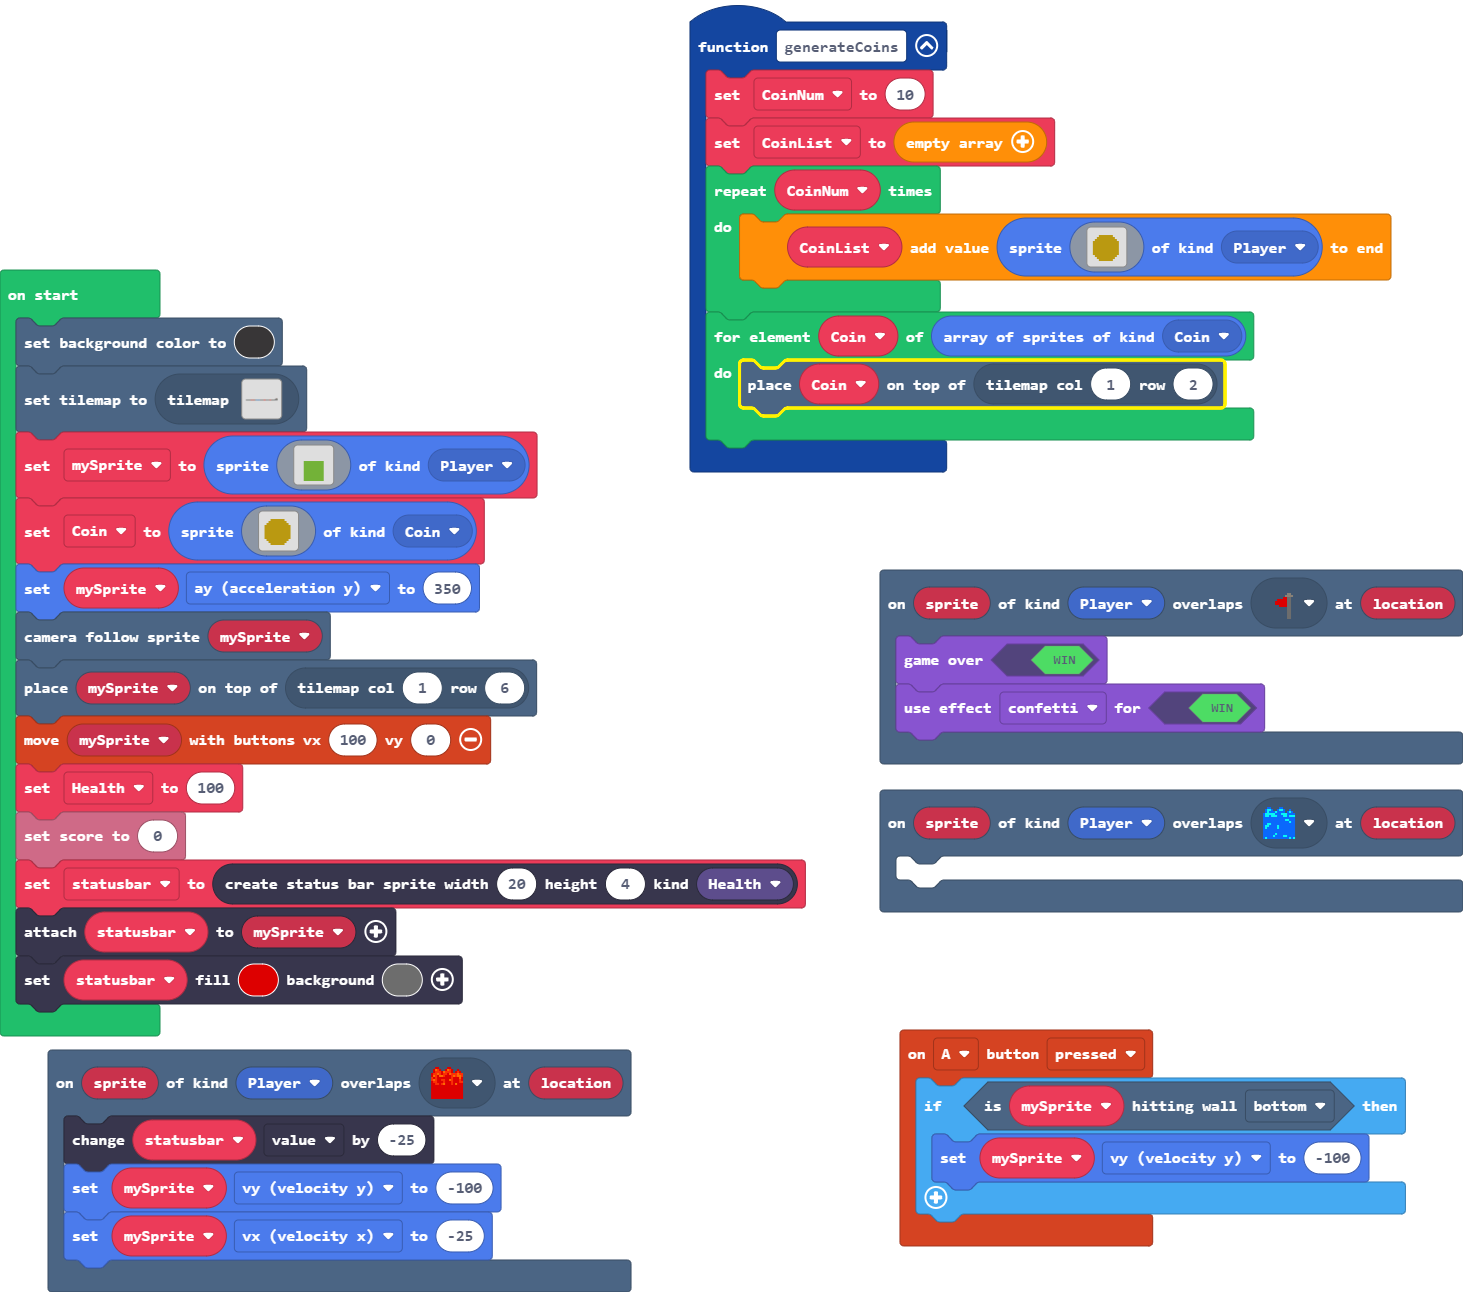
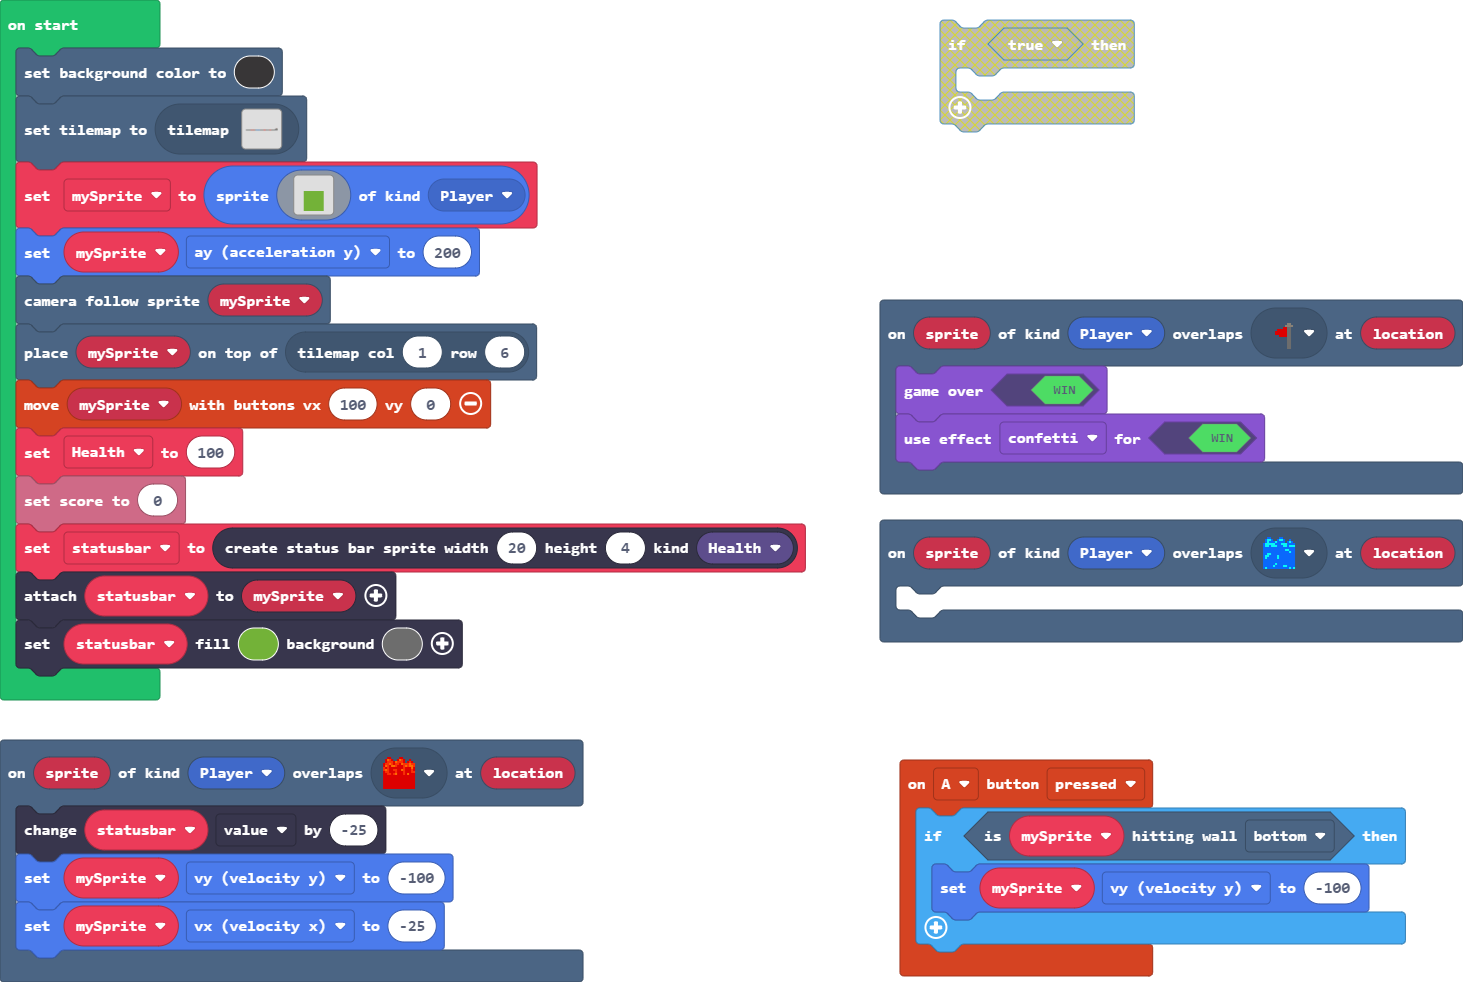
Restore '15/03/2023, 09:14:38 statur bar colour change'

diff --git a/tilemap.g.ts b/tilemap.g.ts
@@ -30,25 +30,6 @@ namespace myTiles {
 .......................................................22222
 2222222222..22..2222..22..22222222...22222222..2222222222222
 `, [myTiles.transparency16,myTiles.tile2,myTiles.tile1,myTiles.tile4,myTiles.tile5,myTiles.tile3,myTiles.tile7,myTiles.tile8], TileScale.Sixteen);
-            case "level2":
-            case "level2":return tiles.createTilemap(hex`1000100000000000000000000000000000000000000000000000000000000000000000000000000000000000000000000000000000000000000000000000000000000000000000000000000000000000000000000000000000000000000000000000000000000000000000000000000000000000000000010101010101010101010101010000010101010101000000000000000101010101010101010101010101010100000000000000000000000000000000000000000000000000000000000000000000000000000000000000000000000000000000000000000000000000000000000000000000000000000000000000000000000000000000000000000000000000`, img`
-. . . . . . . . . . . . . . . . 
-. . . . . . . . . . . . . . . . 
-. . . . . . . . . . . . . . . . 
-. . . . . . . . . . . . . . . . 
-. . . . . . . . . . . . . . . . 
-. . . . . . . . . . . . . . . . 
-. . . . . . . . . . . . . . . . 
-. . . . . . . . . . . . . . . . 
-. . . . . . . . . . . . . . . . 
-. . . . . . . . . . . . . . . . 
-. . . . . . . . . . . . . . . . 
-. . . . . . . . . . . . . . . . 
-. . . . . . . . . . . . . . . . 
-. . . . . . . . . . . . . . . . 
-. . . . . . . . . . . . . . . . 
-. . . . . . . . . . . . . . . . 
-`, [myTiles.transparency16,sprites.castle.tileGrass2], TileScale.Sixteen);
         }
         return null;
     })

diff --git a/main.ts b/main.ts
@@ -1,6 +1,3 @@
-namespace SpriteKind {
-    export const Coin = SpriteKind.create()
-}
 scene.onOverlapTile(SpriteKind.Player, assets.tile`myTile1`, function (sprite, location) {
 	
 })
@@ -14,22 +11,10 @@ controller.A.onEvent(ControllerButtonEvent.Pressed, function () {
         mySprite.vy = -100
     }
 })
-function generateCoins () {
-    CoinNum = 10
-    CoinList = []
-    for (let index = 0; index < CoinNum; index++) {
-        CoinList.push(sprites.create(assets.image`Coin`, SpriteKind.Player))
-    }
-    for (let Coin of sprites.allOfKind(SpriteKind.Coin)) {
-        tiles.placeOnTile(Coin, tiles.getTileLocation(1, 2))
-    }
-}
 scene.onOverlapTile(SpriteKind.Player, assets.tile`tile8`, function (sprite, location) {
     game.gameOver(true)
     game.setGameOverEffect(true, effects.confetti)
 })
-let CoinList: Sprite[] = []
-let CoinNum = 0
 let statusbar: StatusBarSprite = null
 let mySprite: Sprite = null
 scene.setBackgroundColor(10)
@@ -52,8 +37,7 @@ mySprite = sprites.create(img`
     . . . 2 2 2 2 2 2 2 2 2 2 . . . 
     . . . 2 2 2 2 2 2 2 2 2 2 . . . 
     `, SpriteKind.Player)
-let Coin = sprites.create(assets.image`Coin`, SpriteKind.Coin)
-mySprite.ay = 350
+mySprite.ay = 200
 scene.cameraFollowSprite(mySprite)
 tiles.placeOnTile(mySprite, tiles.getTileLocation(1, 6))
 controller.moveSprite(mySprite, 100, 0)

diff --git a/images.g.ts b/images.g.ts
@@ -3,25 +3,7 @@ namespace myImages {
 
     helpers._registerFactory("image", function(name: string) {
         switch(helpers.stringTrim(name)) {
-            case "image1":
-            case "Coin":return img`
-. . . . . . . . . . . . . . . . 
-. . . . . . . . . . . . . . . . 
-. . . . 5 5 5 5 5 5 5 . . . . . 
-. . . 5 5 5 5 5 5 5 5 5 . . . . 
-. . 5 5 5 5 5 5 5 5 5 5 5 . . . 
-. 5 5 5 5 5 5 5 5 5 5 5 5 5 . . 
-. 5 5 5 5 5 5 5 5 5 5 5 5 5 . . 
-. 5 5 5 5 5 5 5 5 5 5 5 5 5 . . 
-. 5 5 5 5 5 5 5 5 5 5 5 5 5 . . 
-. 5 5 5 5 5 5 5 5 5 5 5 5 5 . . 
-. 5 5 5 5 5 5 5 5 5 5 5 5 5 . . 
-. 5 5 5 5 5 5 5 5 5 5 5 5 5 . . 
-. . 5 5 5 5 5 5 5 5 5 5 5 . . . 
-. . . 5 5 5 5 5 5 5 5 5 . . . . 
-. . . . 5 5 5 5 5 5 5 . . . . . 
-. . . . . . . . . . . . . . . . 
-`;
+
         }
         return null;
     })
